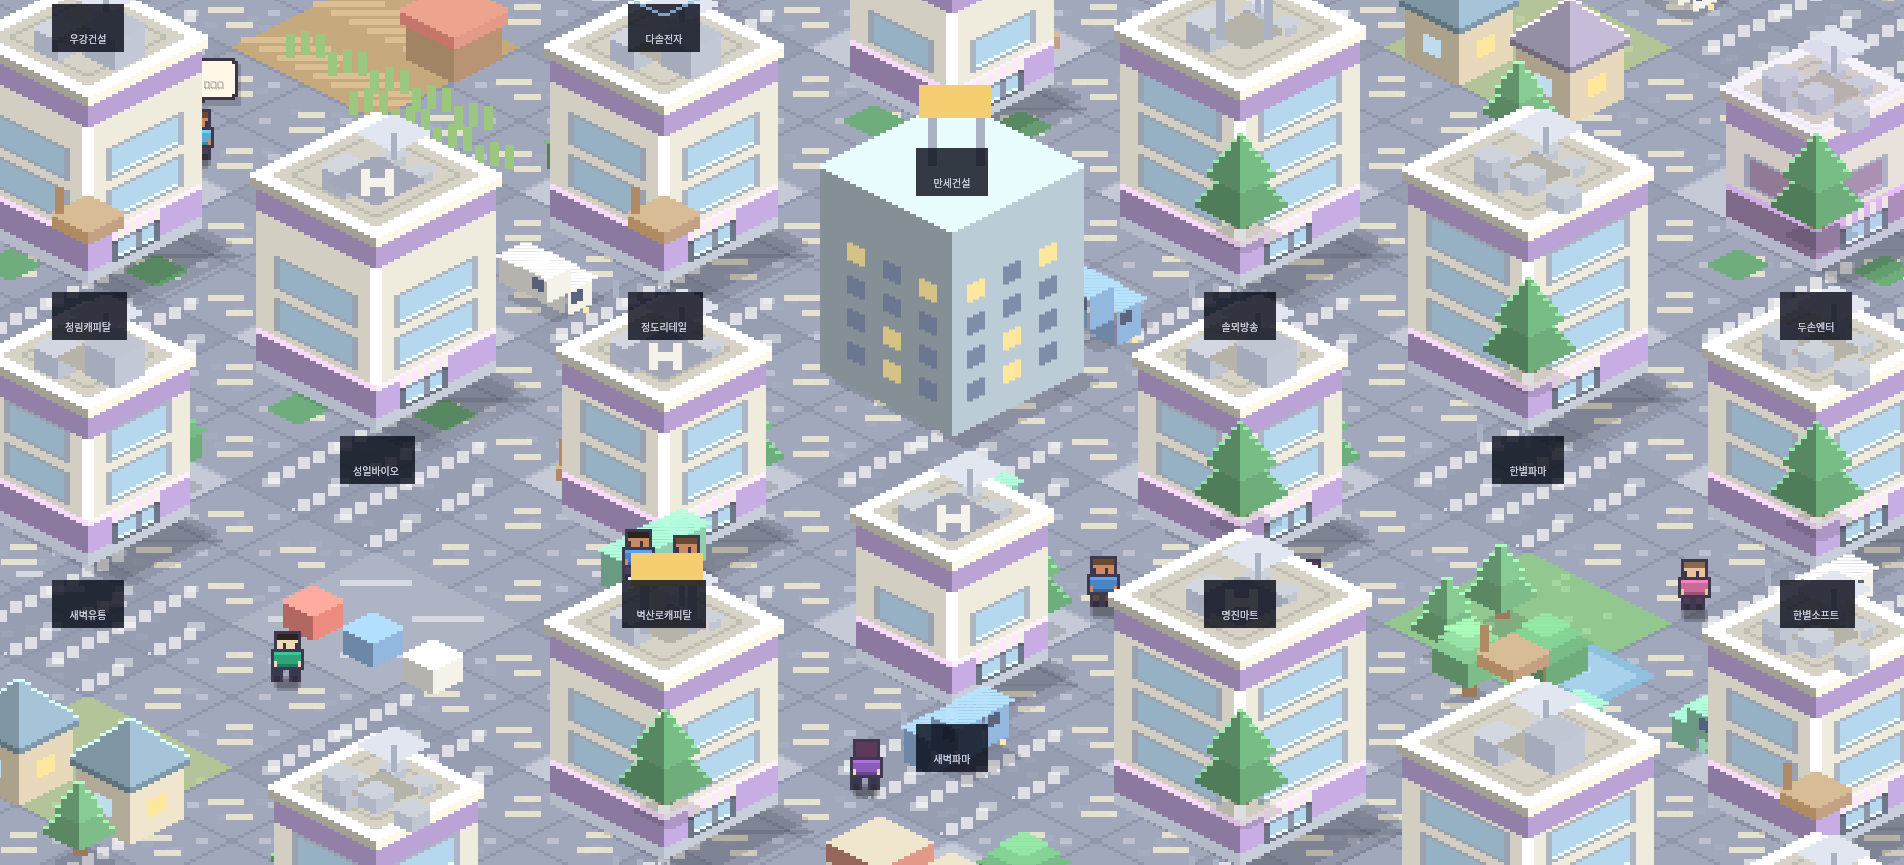
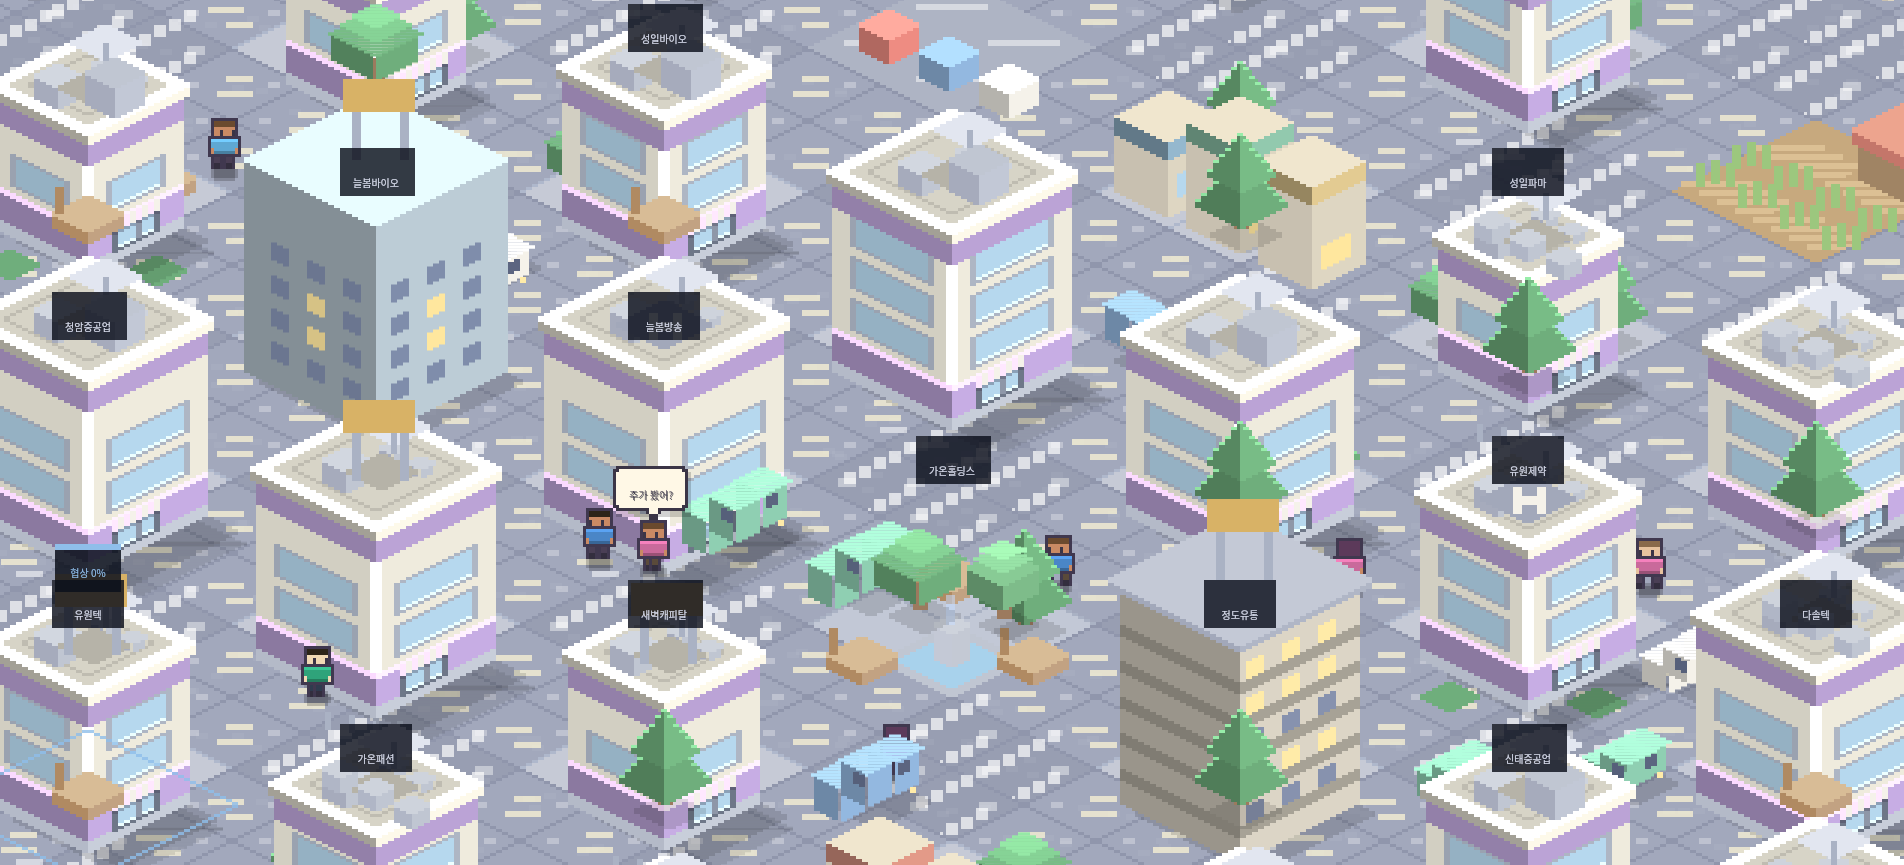
fix: 사옥 벽 부착물이 벽에서 떨어져 나오던 것 + 도시·검수 결함
가게 벽 모서리 결함에서 출발해 같은 뿌리를 가진 것들을 함께 잡았다.
WALL_T=0.44 로 벽을 얇은 슬래브로 바꿀 때, 벽에 붙는 것들이 여전히
타일 한 칸(HW, HH) 기준으로 남아 있었다. 벽만 얇아지고 부착물이
안 따라온 것이다.

사옥 (render/store.js)
- 벽 모서리에 세로로 뚫린 틈. 북동 벽이 gx 0 부터라 모서리 타일에
  북서쪽 판만 서 있었다. 폭 4px · 벽 높이 전체로 바깥 하늘이 비쳤다.
  gx -1 부터 돌려 ㄱ 자로 닫는다.
- wallFace() 추가. 슬래브 안쪽 면을 isoWin 계열이 쓸 가상 타일
  중심으로 바꾼다. 자동문 유리 · 벽 창문 · 창틀이 이걸 지나간다.
- 문 슬래브가 유리색이라 윗면 · 끝면까지 파래져 벽에 상자가 박힌
  것처럼 보였다. 판은 벽 색, 유리는 glassPanel 이 맡는다.
- 창문 off 가 홀수(3)라 바깥 열이 잘렸다 (RENDER.md §8).
- 상호판이 벽 위 하늘로 삐져나왔다. 벽면은 기울기 0.5 로 누운 띠라
  반폭 + 높이 <= 62 여야 들어간다. 74x22(65) -> 64x20(58), 벽 위로
  솟던 걸이는 판 안쪽 고정 나사로.
- 화이트보드는 44+35=79 라 어디에 둬도 못 들어간다. 폭을 줄이면
  글자가 안 들어가므로 벽을 떠나 바닥 이젤로 세운다. 깊이 정렬에
  들어가 앞의 집기 · 사람에 자연스럽게 가린다.
- 회의실 화이트보드가 벽 없는 출입구 칸 위 허공에 떠 있었다.
  벽 한 칸 면(24px) 안으로.
- 사장실 바닥이 gx>=13 인데 벽은 gx 11 세로 + gy 3 가로라, 벽 안쪽인
  gx 12 열만 사무실 색으로 남아 있었다. 벽에 맞춘다.

글꼴 (render/canvas.js)
- size 9 는 FONT 테이블에 없어 X.font 대입이 통째로 무시되고 시스템
  기본 글꼴로 떨어졌다. 말풍선 · 부속실 라벨을 10 으로.

도시 (render/city.js)
- 논밭 이랑 9포기 중 6포기가 흙 블록 마름모 밖, 도로 위에 심겨
  있었다. |dx|/48 + |dy+12|/24 <= 1 을 지키도록 재배치.

검수 도구 (tools/shot.mjs)
- npm run shot 이 마지막 400프레임 루프에서 OOM 으로 죽어
  shots/city.png · store.png 를 갱신할 수 없었다.
  @napi-rs/canvas 1.0.3 은 drawImage 소스가 캔버스면 호출마다
  스냅샷을 붙잡고 놓지 않는다 (global.gc() 로도 안 돌아온다).
  레이어를 Image 로 구워 재사용하되, 디코드가 이벤트 루프를 한 번
  돌아야 끝나므로 그 전에는 원본 캔버스를 쓴다. 프레임 루프는
  frames() 로 매 프레임 양보한다.

문서
- RENDER.md §9 에 위 두 규칙(wallFace, 반폭+높이<=62)을 남긴다.
- shots/ 전량 갱신.
[…]

diff --git a/src/render/store.js b/src/render/store.js
@@ -22,6 +22,23 @@ const DOOR = { gx: 0, gy: 7 };          // 매장 서쪽 자동문
    '벽이 너무 두껍다' 의 원인이었다. */
 const WALL_T = 0.44;
 
+/**
+ * 얇은 벽의 **안쪽 면**을 `isoWin` 계열에 넘길 가상 타일 중심으로 바꾼다.
+ *
+ * `slab` 은 타일 한 칸이 아니라 두께 `WALL_T` 짜리 판이라, 그 안쪽 면은
+ * 타일의 옆면과 어긋나 있다. 문 유리·창·창틀을 타일 중심(`P(gx,gy)`)으로
+ * 그리면 **면 하나만큼 밀려 벽에서 떨어져 나온다** — 실제로 그랬다.
+ *
+ * 어긋남은 평행이동 하나로 정확히 맞는다. 안쪽 면의 밑변은
+ * `y = cy + (2t-1)·HH + (px-cx)/2` 이고, 이는 중심을 `(cx + dir·HW,
+ * cy + (2t-1)·HH)` 로 옮긴 타일의 옆면과 같은 직선이다.
+ *
+ * @param dir `slab` 에 준 것과 같다. +1 북동 벽, -1 북서 벽.
+ */
+function wallFace(x, y, dir) {
+  return { x: x + dir * HW, y: y + (2 * WALL_T - 1) * HH, side: dir < 0 ? 'r' : 'l' };
+}
+
 const STREET_GX = -3;                   // 인도 (gx -3, -2 두 열)
 const STREET_MIN = -9;                  // 인도에서 오갈 수 있는 위쪽 끝
 /* 함수다 — canvas.js 와 서로 물려 있어 최상위에서 roomH() 를 읽으면 초기화 전이다 */
@@ -184,7 +201,10 @@ function offFloorPal() {
   return [FLOOR_OFF, FLOOR_OFF2];
 }
 
-function inBossRoom(gx, gy) { return gx >= 13 && gy <= 2; }
+/* 사장실은 세로 벽(gx 11)과 가로 벽(gy 3, gx 12~) 으로 둘러싸인 **gx 12~15 ·
+   gy 0~2** 다. 바닥 판정이 `gx >= 13` 이라 벽 안쪽인 gx 12 열만 사무실 색으로
+   남아, 사장실 한 칸이 복도처럼 잘려 보였다. 벽에 맞춘다. */
+function inBossRoom(gx, gy) { return gx >= 12 && gy <= 2; }
 
 /* 사옥에도 클릭할 것을 둔다. 지금까지 사옥 캔버스는 판정이 아예 없어서
    보고만 있는 화면이었다. 사장실 책상 → 결재, 계산대 → 매장 창. */
@@ -508,6 +528,7 @@ function drawStore() {
   for (const o of SHOP_PROPS) items.push({ y: P(o.gx, o.gy).y, f: () => drawProp(o) });
   items.push({ y: P(COUNTER[1].gx, COUNTER[1].gy).y, f: drawCounter });
   addOffice(items);
+  addWhiteboard(items);
   addWindows(items);
   addShopStaff(items);
   addRooms(items);
@@ -532,7 +553,11 @@ function drawStore() {
  */
 function drawWalls(items) {
   /* 벽은 통짜 상자였다. 걸레받이와 허리 몰딩을 넣어 높이를 읽히게 한다. */
-  for (let gx = 0; gx < ROOM_W; gx++) {                 // 북동쪽 벽 (gy = -1)
+  /* gx 는 **-1 부터**다. 0 부터 돌면 모서리 타일(-1,-1)에 북서쪽 판만 서고
+     북동쪽 판이 없어, 두 벽 사이에 세로로 뚫린 틈이 남는다 (폭 4px · 벽 높이
+     전체). 바깥 하늘이 그대로 비쳐 보였다. 모서리에 두 방향 판을 겹쳐 세워야
+     ㄱ 자로 닫힌다. */
+  for (let gx = -1; gx < ROOM_W; gx++) {                // 북동쪽 벽 (gy = -1)
     const { x, y } = P(gx, -1);
     const shop = gx < SPLIT_GX;
     items.push({ y, f: () => {
@@ -552,12 +577,15 @@ function drawWalls(items) {
   }
   const d = P(-1, DOOR.gy);                              // 유리 자동문
   items.push({ y: d.y, f: () => {
-    /* 문도 벽과 같은 두께여야 한다 — 벽만 얇아지면 문만 툭 튀어나온다 */
-    slab(X, d.x, d.y, 51, WALL_T, -1, '#9AB8D0', '#8AB4D8', '#5C4E3C');
+    /* 문도 벽과 같은 두께여야 한다 — 벽만 얇아지면 문만 툭 튀어나온다.
+       **판 자체는 벽 색이다.** 유리색을 판에 칠하면 윗면과 끝면까지 파래져
+       벽에 파란 상자가 박힌 것처럼 보인다. 유리는 아래 glassPanel 이 맡는다. */
+    slab(X, d.x, d.y, 51, WALL_T, -1, '#6E5E48', '#5C4E3C', '#4A3E30');
     slabBand(X, d.x, d.y, WALL_T, -1, 0, 5, '#443A2C');
-    glassPanel(d.x, d.y, HW, HH, 'r', 4, 6, 8, 32, '#A8C8DC');     // 두 짝으로 나뉜 유리
-    glassPanel(d.x, d.y, HW, HH, 'r', 14, 6, 8, 32, '#A8C8DC');
-    faces(X, d.x, d.y, HW, HH, 42, 45, '#6B5B47', '#8A7659');      // 상부 문틀
+    const f = wallFace(d.x, d.y, -1);
+    glassPanel(f.x, f.y, HW, HH, f.side, 4, 6, 8, 32, '#A8C8DC');  // 두 짝으로 나뉜 유리
+    glassPanel(f.x, f.y, HW, HH, f.side, 14, 6, 8, 32, '#A8C8DC');
+    isoWin(X, f.x, f.y, HW, HH, f.side, 2, 42, 20, 3, '#8A7659');  // 상부 문틀
   } });
 
 }
@@ -571,7 +599,6 @@ function drawWalls(items) {
  */
 function drawWallFittings() {
   drawSignboard();
-  drawWhiteboard();
   drawLights();
 }
 
@@ -626,10 +653,11 @@ function addWindows(items) {
     if (gy >= roomH() || gy === DOOR.gy) continue;
     const { x, y } = P(-1, gy);
     items.push({ y: y + 0.4, f: () => {
-      glassPanel(x, y, HW, HH, 'r', 3, 24, 18, 18, '#B4D2E6');
-      X.fillStyle = '#6B5B47';                                  // 창틀 가로대
-      const m = P(-1, gy);
-      X.fillRect(Math.round(m.x) + 4, Math.round(m.y) - 34, 14, 2);
+      /* 벽면 좌표로 그린다. 타일 중심으로 그리면 유리가 벽 밖 허공에 뜬다.
+         `off` 는 짝수여야 한다 — `isoWin` 이 2px 단위로 훑는다 (RENDER.md §8). */
+      const f = wallFace(x, y, -1);
+      glassPanel(f.x, f.y, HW, HH, f.side, 4, 24, 16, 18, '#B4D2E6');
+      isoWin(X, f.x, f.y, HW, HH, f.side, 4, 32, 16, 2, '#6B5B47');   // 창틀 가로대
     } });
   }
 }
@@ -685,7 +713,9 @@ function addRooms(items) {
     }
     if (r.n === '탕비실') addPantry(items, r); else addMeeting(items, r);
     const lab = P(r.gx, r.gy - 1);
-    items.push({ y: lab.y + 0.5, f: () => drawText(lab.x, lab.y - 30, r.n, { size: 9, color: '#E8E2D2' }) });
+    /* size 는 10/12/15 만 있다 — FONT[9] 가 undefined 라 `X.font` 대입이
+       통째로 무시되고 시스템 기본 글꼴로 떨어졌다 (RENDER.md §1). */
+    items.push({ y: lab.y + 0.5, f: () => drawText(lab.x, lab.y - 30, r.n, { size: 10, color: '#E8E2D2' }) });
   }
 }
 
@@ -726,12 +756,16 @@ function addMeeting(items, r) {
       } });
     }
   }
-  const wb = P(r.gx + 1, r.gy);
-  items.push({ y: wb.y - 0.4, f: () => {
-    X.fillStyle = '#3A4254'; X.fillRect(Math.round(wb.x) - 22, Math.round(wb.y) - 46, 44, 20);
-    X.fillStyle = '#EDEAE0'; X.fillRect(Math.round(wb.x) - 20, Math.round(wb.y) - 44, 40, 16);
-    X.fillStyle = '#9FB4C8'; X.fillRect(Math.round(wb.x) - 15, Math.round(wb.y) - 39, 22, 2);
-    X.fillStyle = '#C4A2A2'; X.fillRect(Math.round(wb.x) - 15, Math.round(wb.y) - 34, 14, 2);
+  /* **벽 타일에 맞춘다.** 예전에는 방 안쪽 타일 기준 44px 폭이라 판의 절반이
+     옆 칸 — 그것도 벽을 세우지 않은 출입구 칸 — 위 허공에 떠 있었다.
+     벽 한 칸의 면은 가로 24px 이므로 판도 그 안에 들어가야 한다. */
+  const wb = P(r.gx + 1, r.gy - 1);
+  const bx = Math.round(wb.x) - 12, by = Math.round(wb.y) - 40;
+  items.push({ y: wb.y + 0.4, f: () => {
+    X.fillStyle = '#3A4254'; X.fillRect(bx - 12, by, 24, 20);
+    X.fillStyle = '#EDEAE0'; X.fillRect(bx - 10, by + 2, 20, 16);
+    X.fillStyle = '#9FB4C8'; X.fillRect(bx - 7, by + 6, 12, 2);
+    X.fillStyle = '#C4A2A2'; X.fillRect(bx - 7, by + 11, 8, 2);
   } });
 }
 
@@ -808,7 +842,11 @@ function addDeco(items) {
 function drawSignboard() {
   const a = P(1, -1), b = P(4, -1);
   const x = (a.x + b.x) / 2, y = (a.y + b.y) / 2;
-  const w = 74, h = 22, L = Math.round(x - w / 2), T = Math.round(y - 44);
+  /* 치수에 여유가 없다. 벽면은 화면에서 기울기 0.5 로 누운 띠(세로 두께 약
+     62px)라, 가로로 반듯한 판이 그 안에 들어가려면 **반폭 + 높이 ≤ 62** 여야
+     한다. 74×22 는 39+26=65 로 넘쳐서 우상단이 벽 위 하늘로 삐져나왔다.
+     64×20 이면 34+24=58 이라 위아래로 여유가 남는다. */
+  const w = 64, h = 20, L = Math.round(x - w / 2), T = Math.round(y - 44);
 
   X.save(); X.globalAlpha = 0.26;                       // 벽에 지는 그림자
   X.fillStyle = '#000000'; X.fillRect(L + 3, T + 3, w, h); X.restore();
@@ -817,40 +855,57 @@ function drawSignboard() {
   X.fillStyle = '#2E2A24'; X.fillRect(L, T, w, h);                       // 판
   X.fillStyle = '#C9A253'; X.fillRect(L, T, w, 3);                       // 놋쇠 윗단
   X.fillStyle = 'rgba(255,255,255,.06)'; X.fillRect(L, T + 3, w, 1);
-  for (const bx of [L + 10, L + w - 12]) {                               // 걸이
-    X.fillStyle = '#8A7659'; X.fillRect(bx, T - 8, 2, 7);
-    X.fillStyle = '#C9A253'; X.fillRect(bx - 1, T - 9, 4, 2);
+  /* 걸이는 판 위로 9px 더 솟는데, 그만큼이 그대로 벽 밖으로 나간다.
+     판 안쪽에 박는 고정 나사로 바꾼다 — 벽에 붙은 느낌은 그림자가 낸다. */
+  for (const bx of [L + 8, L + w - 10]) {                               // 고정 나사
+    X.fillStyle = '#8A7659'; X.fillRect(bx, T + 6, 2, 2);
   }
   drawText(x, T + 15, S.co.name, { size: 12, color: '#F0DFAE', shadow: false });
 }
 
-/** 사무실 화이트보드 — 협상 중이면 진행도/성공도, 아니면 다음 등급 목표 */
-function drawWhiteboard() {
-  const a = P(10, -1), b = P(11, -1);
-  const x = (a.x + b.x) / 2, y = (a.y + b.y) / 2;
-  /* 벽면 안쪽에 걸되 **직원 머리 위로** 올린다. y-46 에 두었더니 앞줄에 앉은
-     사원의 얼굴을 가렸다 — 벽에 붙은 것과 사람을 가리는 것은 다른 문제다.
-     폭도 줄여 뒤쪽 책상까지 덮지 않게 했다. */
-  const w = 82, h = 29, ty = Math.round(y - 60), L = Math.round(x - w / 2);
-  X.save(); X.globalAlpha = 0.24;
-  X.fillStyle = '#000000'; X.fillRect(L + 3, ty + 3, w, h); X.restore();
-  X.fillStyle = '#4A4436'; X.fillRect(L - 3, ty - 3, w + 6, h + 6);       // 알루미늄 틀
+/**
+ * 사무실 화이트보드 — 협상 중이면 진행도/성공도, 아니면 다음 등급 목표.
+ *
+ * **벽에 걸지 않는다.** 벽면은 화면에서 기울어진 띠라 가로로 반듯한 판은
+ * `반폭 + 높이 ≤ 62` 를 지켜야 들어가는데(상호판 주석 참고), 이 판은 글자
+ * 두 줄과 막대 두 개를 담느라 반폭 44 · 높이 35 다. 어디에 두든 우상단이
+ * 벽 위로 22px 솟아 **하늘에 떠 보였다.** 폭을 줄이면 글자가 안 들어간다.
+ *
+ * 그래서 바닥에 세우는 이젤로 바꿨다. 세워 두면 벽 띠의 제약을 안 받으므로
+ * **판 크기는 예전 그대로(82×29)** 두었고, 깊이 정렬에 들어가므로 앞의
+ * 집기·사람에 자연스럽게 가린다.
+ * 자리는 사무실 서쪽 빈 열(gx 10) — 책상도 화분도 없는 칸이다.
+ */
+function addWhiteboard(items) {
+  const p = P(10, 3);
+  items.push({ y: p.y, f: () => drawWhiteboard(p.x, p.y) });
+}
+
+function drawWhiteboard(px, py) {
+  const w = 82, h = 29;
+  const x = Math.round(px), ty = Math.round(py) - 46, L = Math.round(px - w / 2);
+  X.save(); X.globalAlpha = 0.18;                                        // 바닥 그림자
+  rhomb(X, px + 3, py + 2, 22, 11, '#000000'); X.restore();
+  X.fillStyle = '#4A4436';                                               // 다리
+  X.fillRect(L + 8, ty + h + 3, 3, 15);
+  X.fillRect(L + w - 11, ty + h + 3, 3, 15);
+  X.fillStyle = '#4A4436'; X.fillRect(L - 3, ty - 3, w + 6, h + 6);      // 알루미늄 틀
   X.fillStyle = '#635944'; X.fillRect(L - 3, ty - 3, w + 6, 2);
   X.fillStyle = '#EDEAE0'; X.fillRect(L, ty, w, h);
   X.fillStyle = '#C9C4B4'; X.fillRect(L, ty + h - 3, w, 3);
   const ns = S.negos || [];
   if (ns.length) {
-    /* 협상이 둘이면 이름 대신 건수를 적는다 — 이 판때기는 93px 라 두 줄이 안 들어간다.
+    /* 협상이 둘이면 이름 대신 건수를 적는다 — 판이 82px 라 두 줄이 안 들어간다.
        진행 막대는 가장 앞선 것을 보여 준다(먼저 끝날 것이 궁금하다). */
     const lead = ns.reduce((a, b2) => (b2.progress > a.progress ? b2 : a));
-    drawText(x, ty + 14, ns.length > 1 ? `협상 ${ns.length}건 진행 중` : `협상 · ${lead.name}`,
+    drawText(x, ty + 13, ns.length > 1 ? `협상 ${ns.length}건 진행 중` : `협상 · ${lead.name}`,
              { size: 10, color: '#26304A', shadow: false });
-    bar(x - w / 2 + 6, ty + 18, w - 12, 5, lead.progress / 100, '#4A86C7');
-    bar(x - w / 2 + 6, ty + 26, w - 12, 5, lead.success / 100, '#2FA37A');
+    bar(x - w / 2 + 6, ty + 16, w - 12, 5, lead.progress / 100, '#4A86C7');
+    bar(x - w / 2 + 6, ty + 23, w - 12, 5, lead.success / 100, '#2FA37A');
   } else {
     const t = TIERS[S.co.tier];
-    drawText(x, ty + 14, t.name, { size: 10, color: '#26304A', shadow: false });
-    drawText(x, ty + 29, t.goal, { size: 10, color: '#5C5340', shadow: false });
+    drawText(x, ty + 13, t.name, { size: 10, color: '#26304A', shadow: false });
+    drawText(x, ty + 26, t.goal, { size: 10, color: '#5C5340', shadow: false });
   }
 }
 
@@ -1188,4 +1243,4 @@ function drawFoot() {
   });
 }
 
-export { drawBackdrop, drawOutside, glassPanel, BOSS, CLERK, CLERK2, COUNTER, DESKS, DOOR, EXTRA_CLERK, EXTRA_COUNTER, EXTRA_FRIDGE, EXTRA_SHELF, FLATS, FREEZERS, FRIDGES, HOTSPOTS, P, QUEUE, SHELVES, SHOP_BLOCK, SHOP_PROPS, STREET_GX, STREET_MIN, addOffice, advancePhase, bar, blockedAt, clerksNow, countersNow, drawBossDesk, drawCounter, drawDesk, drawEmptyChair, drawFlat, drawFoot, drawFreezer, drawFridge, drawOfficeProp, drawPartition, drawProp, drawShelf, drawSignboard, drawStore, drawWallFittings, drawWalls, drawWhiteboard, facilKey, streetMax, streetSpot, findPath, fl, fridgesNow, inBossRoom, invRatio, newCustomer, offFloorPal, palette, retarget, shelvesNow, shopFloorPal, spawnCustomers, stepCustomers, stocked, storeFloor, storeHit, tileOf, walkable };
+export { drawBackdrop, drawOutside, glassPanel, BOSS, CLERK, CLERK2, COUNTER, DESKS, DOOR, EXTRA_CLERK, EXTRA_COUNTER, EXTRA_FRIDGE, EXTRA_SHELF, FLATS, FREEZERS, FRIDGES, HOTSPOTS, P, QUEUE, SHELVES, SHOP_BLOCK, SHOP_PROPS, STREET_GX, STREET_MIN, addOffice, addWhiteboard, advancePhase, bar, blockedAt, clerksNow, countersNow, drawBossDesk, drawCounter, drawDesk, drawEmptyChair, drawFlat, drawFoot, drawFreezer, drawFridge, drawOfficeProp, drawPartition, drawProp, drawShelf, drawSignboard, drawStore, drawWallFittings, drawWalls, drawWhiteboard, facilKey, streetMax, streetSpot, findPath, fl, fridgesNow, inBossRoom, invRatio, newCustomer, offFloorPal, palette, retarget, shelvesNow, shopFloorPal, spawnCustomers, stepCustomers, stocked, storeFloor, storeHit, tileOf, walkable };

diff --git a/src/render/city.js b/src/render/city.js
@@ -462,9 +462,15 @@ function drawTerrain(e) {
     for (const [dx, dy] of [[-27, -3], [-9, -14], [6, 11], [-20, 12]]) drawTree(x + dx, y + dy, h2(e.tx + dx, e.ty + dy));
     drawBench(x - 5, y + 2);
   } else if (e.kind === 'farm') {
-    for (let i = 0; i < 5; i++) drawCrop(x - 30 + i * 14, y - 11 + i * 6);
-    for (let i = 0; i < 4; i++) drawCrop(x - 9 + i * 14, y + 8 + i * 6);
-    drawShed(x + 26, y - 8);
+    /* 이랑은 흙 블록 **안에** 있어야 한다. 블록은 2×2 타일이라 반폭 48 · 반높이
+       24 짜리 마름모이고, 중심은 `lotC` 보다 HH 위다. 즉 중심 기준 (dx, dy) 가
+       `|dx|/48 + |dy|/24 ≤ 1` 을 지켜야 흙을 밟는다.
+       예전 좌표는 9포기 중 6포기가 이 밖으로 나가 **도로 위에 심겨 있었다.**
+       `drawCrop` 은 (x, y) 가 포기 세 줄의 왼쪽 끝이라 중심은 x+7 이다. */
+    const fy = y - HH;
+    for (let i = 0; i < 4; i++) drawCrop(x - 28 + i * 14, fy - 10 + i * 7);
+    for (let i = 0; i < 4; i++) drawCrop(x - 40 + i * 14, fy - 4 + i * 7);
+    drawShed(x + 30, fy - 4);
   } else if (e.kind === 'houses') {
     drawHouse(x - 23, y - 8, h2(e.tx, e.ty));
     drawHouse(x + 14, y + 5, h2(e.ty, e.tx));

diff --git a/src/render/canvas.js b/src/render/canvas.js
@@ -557,7 +557,9 @@ function drawSitter(x, y, look, dir = 's', busy = 0) {
    글자는 월드 좌표에 그리면 배율에 눌려 뭉개지므로, 상자만 월드에 그리고
    글자는 `drawText` 의 화면 좌표 경로를 그대로 탄다. */
 function drawBubble(x, y, txt, tint = '#FFF8E6') {
-  const w = Math.max(20, Math.round(textW(txt, 9)) + 10), h = 14;
+  /* size 는 10/12/15 만 있다. 9 는 FONT 테이블에 없어 `X.font` 대입이 무시되고
+     Galmuri 가 아니라 시스템 기본 글꼴로 떨어졌다 (RENDER.md §1). */
+  const w = Math.max(20, Math.round(textW(txt, 10)) + 10), h = 15;
   const bx = Math.round(x - w / 2), by = Math.round(y - h);
   X.fillStyle = 'rgba(0,0,0,.18)';
   X.fillRect(bx + 1, by + 2, w, h);
@@ -567,7 +569,7 @@ function drawBubble(x, y, txt, tint = '#FFF8E6') {
   X.fillRect(Math.round(x) - 2, by + h - 1, 5, 2);
   X.fillRect(Math.round(x) - 1, by + h + 1, 3, 2);
   X.fillStyle = tint; X.fillRect(Math.round(x) - 1, by + h - 1, 3, 2);
-  drawText(x, by + 10, txt, { size: 9, color: '#4A4356' });
+  drawText(x, by + 11, txt, { size: 10, color: '#4A4356' });
 }
 
 /**

diff --git a/RENDER.md b/RENDER.md
@@ -278,6 +278,14 @@ PNG로 떨군다. 노드에는 Galmuri가 없어 시스템 CJK 폰트를 같은 
 
 - **집기가 차지하는 타일과 크기는 건드리지 말 것.** `blockedAt` 과 손님 경로가
   거기에 묶여 있어 크기를 바꾸면 통행이 막힌다. 마감만 얹는다.
+- **벽에 붙는 것은 `wallFace()` 를 지나게 할 것.** 벽은 타일 한 칸이 아니라
+  두께 `WALL_T` 짜리 판(`slab`)이라, 안쪽 면이 타일 옆면과 어긋나 있다.
+  문 유리·창·창틀을 `P(gx,gy)` 로 그리면 면 하나만큼 밀려 **벽에서 떨어져 뜬다.**
+  `wallFace(x, y, dir)` 가 `isoWin` 계열에 넘길 가상 중심과 면(`l`/`r`)을 준다.
+- **벽에 거는 판은 `반폭 + 높이 ≤ 62` 를 지킬 것.** 벽면은 화면에서 기울기 0.5 로
+  누운 띠(세로 두께 약 62px)라, 가로로 반듯한 사각형은 이 한도를 넘는 순간
+  모서리가 벽 밖 하늘로 삐져나온다. 안 들어가면 벽에 걸지 말고 바닥에 세운다
+  (화이트보드가 그래서 이젤이 됐다).
 - 스모크가 **시설 최대 상태에서 모든 진열대에 경로가 닿는지** 검사한다.
 
 ## 10. 캐릭터
